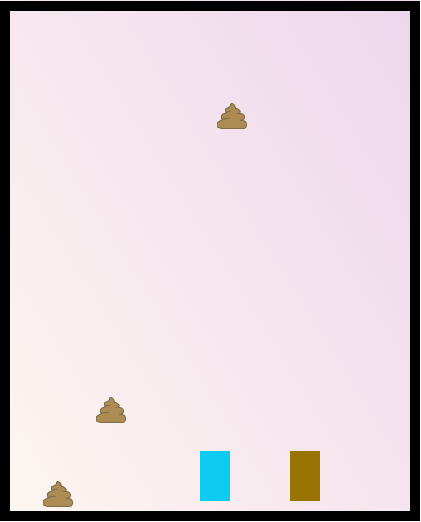
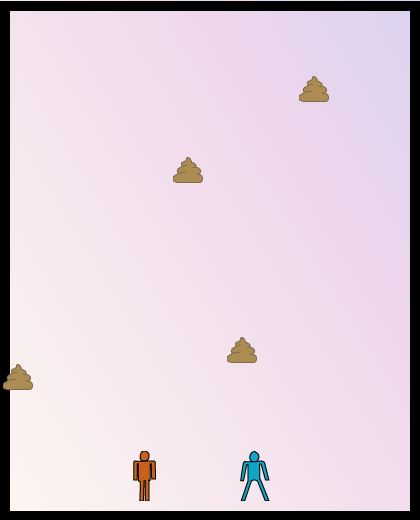
add result list and ranker search box remember me

diff --git a/src/main/resources/templates/home.html b/src/main/resources/templates/home.html
@@ -11,7 +11,7 @@
             <div class="card" style="width: 18rem;">
                 <img src="/image/ddong_game.png" height="240px" class="card-img-top" alt="gameImage1">
                 <div class="card-body">
-                    <h5 class="card-title">Game1</h5>
+                    <h5 class="card-title">낙하물 피하기</h5>
                     <table class="table">
                         <thead>
                         <tr>
@@ -29,8 +29,8 @@
                         </tbody>
                     </table>
 
-                    <a th:href="@{/ddong/waitingroom}" class="btn btn-primary">대기실</a>
-                    <a th:href="@{/}" class="btn btn-primary">전체 성적 보기</a>
+                    <a th:href="@{/ddong/waitingroom}" class="btn btn-sm btn-primary">대기실</a>
+                    <a href="http://localhost:8080/result/listRanker?page=0&game_kind=LADDER&order_by=winCount&order=DESC" class="btn btn-sm btn-success">전체 성적</a>
                 </div> <!--/* end of class card body */-->
             </div> <!--/* end of class card */-->
         </div>  <!--/* end of class col-4 */-->
@@ -56,8 +56,8 @@
                         </tbody>
                     </table>
 
-                    <a th:href="@{/ping/waitingroom}" class="btn btn-primary">대기실</a>
-                    <a th:href="@{/}" class="btn btn-primary">전체 성적 보기</a>
+                    <a th:href="@{/ping/waitingroom}" class="btn btn-sm btn-primary">대기실</a>
+                    <a href="http://localhost:8080/result/listRanker?page=0&game_kind=PING&order_by=winCount&order=DESC" class="btn btn-sm btn-success">전체 성적</a>
                 </div>   <!--/* end of class card body */-->
             </div> <!--/* end of class card */-->
         </div> <!--/* end of class col-4 */-->
@@ -83,8 +83,8 @@
                         </tbody>
                     </table>
 
-                    <a th:href="@{/quiz/waitingroom}" class="btn btn-primary">대기실</a>
-                    <a th:href="@{/}" class="btn btn-primary">전체 성적 보기</a>
+                    <a th:href="@{/quiz/waitingroom}" class="btn btn-sm btn-primary">대기실</a>
+                    <a href="http://localhost:8080/result/listRanker?page=0&game_kind=QUIZ&order_by=winCount&order=DESC" class="btn btn-sm btn-success">전체 성적</a>
                 </div> <!--/* end of class card body */-->
             </div> <!--/* end of class card */-->
         </div> <!--/* end of class col-4 */-->

diff --git a/src/main/resources/templates/result/viewGameResult.html b/src/main/resources/templates/result/viewGameResult.html
@@ -30,7 +30,7 @@
             </form>
         </div>
 
-        <div style="height: 480px">
+        <div style="height: 480px; overflow: hidden">
             <table class="table table-info">
                 <thead>
                 <tr>
@@ -49,7 +49,12 @@
                     <td th:text="${result.gamedate}"></td>
                     <td th:text="${result.winner_id}"></td>
                     <td th:text="${result.loser_id}"></td>
-                    <td><a href="#"  th:id="|link${result.game_id}|" onclick="removeGameResult()" style="text-decoration: none">기록삭제</a></td>
+                    <td>
+                        <form id="removeResultForm" th:action="@{/result/remove}" method="post">
+                            <input type="hidden" name="strId" th:value="${result.game_id}">
+                            <button class="btn btn-sm btn-danger">삭제</button>
+                        </form>
+                    </td>
                 </tr>
                 </tbody>
             </table>
@@ -87,10 +92,19 @@
 
     const removeGameResult = (event) => {
         event.preventDefault();
-        const strId = event.target.id;
-        console.log(strId);
 
+        if(!confirm("이 게임 기록을 삭제하시겠습니까?")) return
+
+        const form = event.target.parentElement
+        console.log(form)
+
+        form.submit()
     }
 
+    const btnsRemove = document.querySelectorAll("td form button");
+    for(let btn of btnsRemove) btn.addEventListener("click", removeGameResult);
+
+    const removeResult = [[${removeResult}]].toString();
+    if(removeResult!=null) alert(removeResult)
 
 </script>

diff --git a/src/main/resources/templates/result/searchRankerForm.html b/src/main/resources/templates/result/searchRankerForm.html
@@ -15,7 +15,7 @@
                     <div class="input-group">
                         <div class="input-group">
                             <select class="form-select" name="game_kind" aria-label="Default select example">
-                                <option value="PING" th:selected="${game_kind=='PING'}">PING</option>
+                                <option value="PING" th:selected="${game_kind=='PING'}">Pingpong</option>
                                 <option value="LADDER" th:selected="${game_kind=='LADDER'}">낙하물</option>
                                 <option value="QUIZ" th:selected="${game_kind=='QUIZ'}">QUIZ</option>
                             </select>
@@ -38,7 +38,7 @@
             </form>
         </div>
 
-        <div style="height: 480px">
+        <div style="height: 480px; overflow: hidden">
             <table class="table table-info">
                 <thead>
                 <tr>

diff --git a/src/main/resources/templates/quiz/waitingRoom.html b/src/main/resources/templates/quiz/waitingRoom.html
@@ -10,7 +10,7 @@
 
     <div class="row" style="height : 680px; background:linear-gradient(58.2deg, rgba(255, 204, 112, 0.1) -3%, rgba(171, 53, 163, 0.2) 49.3%, rgba(40, 91, 212, 0.3) 97.7%);  padding : 20px 0; border-radius: 6px">
         <div class="container d-flex" style="height: 50px;">
-            <div class="alert alert-success flex-grow-1" style="height: 50px; margin-right: 20px" role="alert">
+            <div class="alert alert-primary flex-grow-1" style="height: 50px; margin-right: 20px" role="alert">
                 Quiz 대기실
             </div>
             <div class="flex-shrink-0">

diff --git a/src/main/resources/templates/login/loginForm.html b/src/main/resources/templates/login/loginForm.html
@@ -22,6 +22,9 @@
                 <div class="login_btn">
                     <input type="submit" value="로그인">
                 </div>
+                <div>
+                    <label class="fs-6" for="remember">remember me</label><input class="fs-6" id="remember" type="checkbox" name="remember-me">
+                </div>
             </form>
             <a href="/member/forgotPassword" style="font-size:20px">forgot password?</a>
         </div>

diff --git a/src/main/resources/templates/member/viewMembers.html b/src/main/resources/templates/member/viewMembers.html
@@ -10,7 +10,7 @@
             Member Table
         </div>
 
-        <div style="height:490px; margin-top: 40px">
+        <div style="height:490px; margin-top: 40px; overflow: hidden">
             <table class="table table-info">
                 <thead>
                 <tr>

diff --git a/src/main/resources/static/css/ddongGameRoom.css b/src/main/resources/static/css/ddongGameRoom.css
@@ -3,14 +3,12 @@
     width: 30px;
     height: 50px;
     top : 450px;
-    background-color:#997404;
     position: absolute;
 }
 .player1_char{
     width: 30px;
     height: 50px;
     top:450px;
-    background-color:  #0dcaf0;
     position: absolute;
 }
 /*

diff --git a/src/main/java/com/example/king/serviceImpl/GameResultServiceImpl.java b/src/main/java/com/example/king/serviceImpl/GameResultServiceImpl.java
@@ -51,7 +51,11 @@ public class GameResultServiceImpl implements GameResultService {
         for(GameResultEntity entity : entityList){
             GameResultListDTO dto = new GameResultListDTO();
             dto.setGame_id( entity.getGame_id());
-            dto.setGame_kind( entity.getGameKind().name());
+            switch (entity.getGameKind().name()) {
+                case "PING" -> dto.setGame_kind("PingPong");
+                case "LADDER" -> dto.setGame_kind("낙하물 피하기");
+                case "QUIZ" -> dto.setGame_kind("상식 퀴즈 대결");
+            }
             if(entity.getWinner() != null) dto.setWinner_id( entity.getWinner().getId());
             if(entity.getLoser() != null) dto.setLoser_id( entity.getLoser().getId());
             dto.setGamedate( entity.getGamedate());
@@ -61,23 +65,6 @@ public class GameResultServiceImpl implements GameResultService {
 
         return dtoList;
     }
-
-//    @Override
-//    public List<GameResultListDTO> getGameResultList(String userId, String gameKind){
-//        log.info("**** getGameResultList@GameResultServiceImpl : user id , gameKind" + userId + ", " + gameKind);
-//
-//        List<GameResultEntity> entityList = new ArrayList<>();
-//
-//        if(userId.isEmpty()){
-//            if(gameKind.equals("not_selected")) entityList = gameResultRepository.findAll();
-//            else entityList =  gameResultRepository.findAllByGameKind(GameKind.valueOf(gameKind));
-//        } else {
-//            if(gameKind.equals("not_selected")) entityList =  gameResultRepository.findAllByIdContains(userId);
-//            else entityList = gameResultRepository.findAllBy(userId, GameKind.valueOf(gameKind));
-//        }
-//
-//        return entityToDTO(entityList);
-//    }
 
     @Override
     public GameResultListPageDTO getGameResultList(String userId, String gameKind, Pageable pageable){
@@ -129,5 +116,17 @@ public class GameResultServiceImpl implements GameResultService {
             log.error("createGameResult@GamerResultServiceImpl : " + e.getMessage() + entity.getGameKind() + entity.getWinner().getId() + entity.getLoser().getId());
         }
 
+    }
+
+    @Override
+    public String removeGameResult(long game_id){
+
+        try{
+            gameResultRepository.deleteById(game_id);
+            return "success";
+        } catch (Exception e){
+            log.error("createGameResult@GamerResultServiceImpl : " + e.getMessage());
+            return "fail to remove";
+        }
     }
 }

diff --git a/src/main/java/com/example/king/config/SecurityConfig.java b/src/main/java/com/example/king/config/SecurityConfig.java
@@ -57,7 +57,7 @@ public class SecurityConfig {
                     .requestMatchers("/auth/login").permitAll()
                     .requestMatchers("/member/exist/id/**").permitAll()
                     .requestMatchers("/member/exist/nickname/**").permitAll()
-                    .requestMatchers("/member/list", "/member/getJwtToken", "/result/list").hasAuthority("ROLE_ADMIN")
+                    .requestMatchers("/member/list", "/member/getJwtToken", "/result/list", "/result/remove").hasAuthority("ROLE_ADMIN")
                     .requestMatchers("/logout").authenticated()
                     .anyRequest().authenticated();
         })
@@ -67,6 +67,11 @@ public class SecurityConfig {
                 .usernameParameter("id") // loadByUserName 의 parameter를 지정 default=username
                 .failureHandler(authenticationFailureHandler())
                 .successHandler(authenticationSuccessHandler());
+        })
+        .rememberMe( (remember) -> {
+            remember.alwaysRemember(false)
+                    .tokenValiditySeconds(60*60*24*5)
+                    .userDetailsService(memberUserDetailsService);
         })
         .logout((logout) -> {
             logout.logoutUrl("/auth/logout")  //PostMappeing("/auth/logout")으로 logout 설정

diff --git a/src/main/java/com/example/king/controller/GameResultController.java b/src/main/java/com/example/king/controller/GameResultController.java
@@ -14,6 +14,7 @@ import org.springframework.http.ResponseEntity;
 import org.springframework.stereotype.Controller;
 import org.springframework.ui.Model;
 import org.springframework.web.bind.annotation.*;
+import org.springframework.web.servlet.mvc.support.RedirectAttributes;
 
 import java.util.List;
 
@@ -166,4 +167,16 @@ public class GameResultController {
         return "result/searchRankerForm";
     }
 
+    @PostMapping("/remove")
+    public String removeGameResult(String strId, RedirectAttributes redirectAttributes){
+        long game_id = Long.parseLong(strId);
+        String result = gameResultService.removeGameResult(game_id);
+        if(result.equals("success")){
+            redirectAttributes.addFlashAttribute("removeResult", "해당 기록이 삭제 되었습니다");
+        } else {
+            redirectAttributes.addFlashAttribute("removeResult", "기록 삭제에 실패했습니다");
+        }
+
+        return "redirect:list";
+    }
 }

diff --git a/src/main/java/com/example/king/service/GameResultService.java b/src/main/java/com/example/king/service/GameResultService.java
@@ -14,4 +14,6 @@ public interface GameResultService {
     public GameResultListPageDTO getGameResultList(String userId, String gameKind, Pageable pageable);
 
     public void createGameResult(GameResultCreateDTO gameResultCreateDTO);
+
+    String removeGameResult(long game_id);
 }
